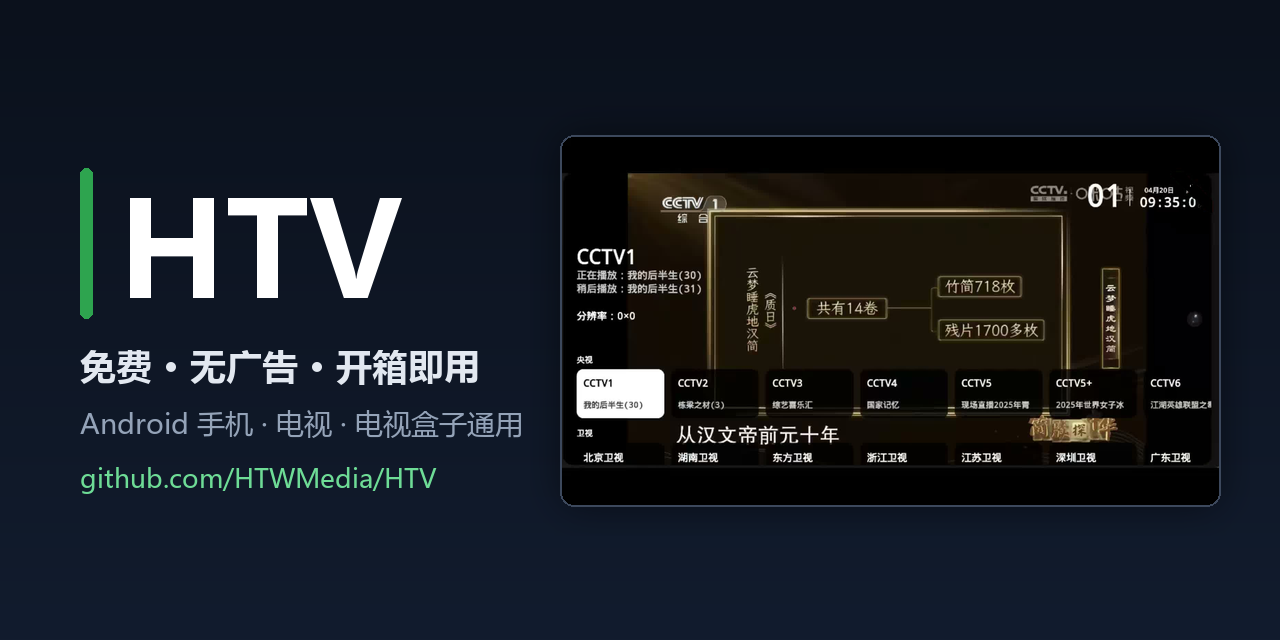
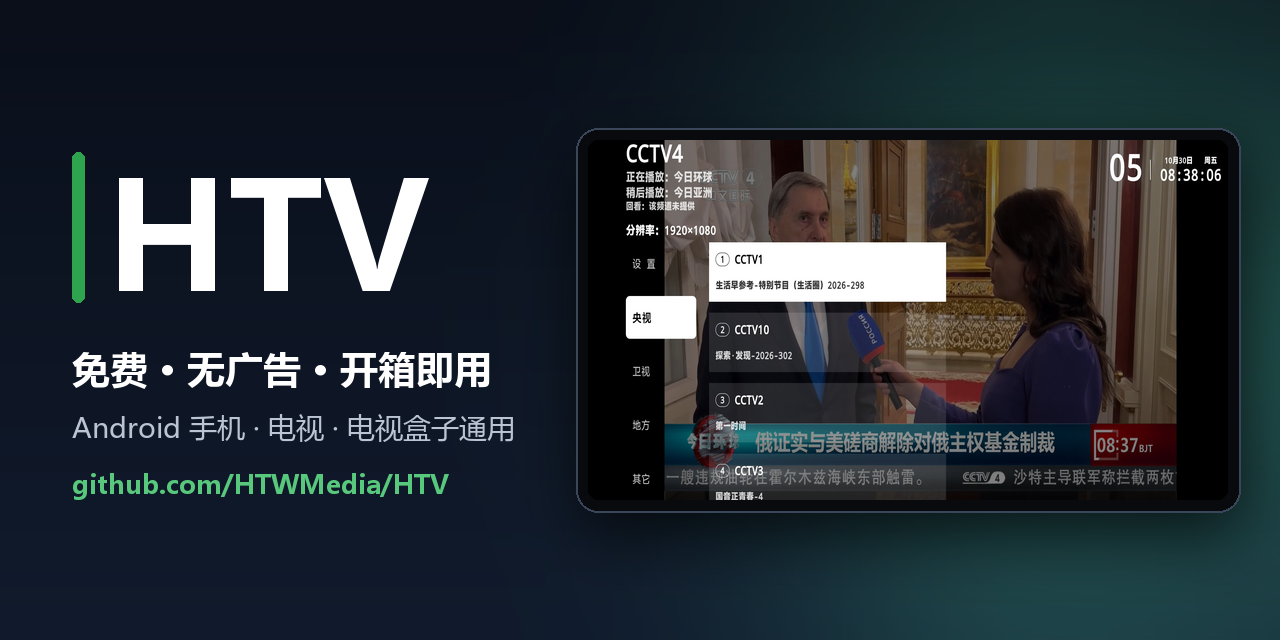
杂项: README 首屏改用社交预览图，预览图换成最新频道面板截图

diff --git a/README.md b/README.md
@@ -16,7 +16,7 @@
 
 ---
 
-![HTV 电视直播界面：频道列表与节目信息，Android 电视盒子与手机通用](screenshot.jpg)
+![HTV 电视直播软件社交预览：免费、无广告，Android 手机、电视与电视盒子通用](social-preview.png)
 
 <p align="center">
   <img src="assets/images/screenshot-panel.jpg" width="49%" alt="频道面板：分组、频道列表、正在播放与稍后播放">

diff --git a/README.en.md b/README.en.md
@@ -16,7 +16,7 @@
 
 ---
 
-![HTV live TV interface with channel list and program info](screenshot.jpg)
+![HTV live TV app social preview: free, ad-free, for Android phones, TVs and TV boxes](social-preview.png)
 
 <p align="center">
   <img src="assets/images/screenshot-panel.jpg" width="49%" alt="Channel panel: groups, channel list, now playing and up next">
